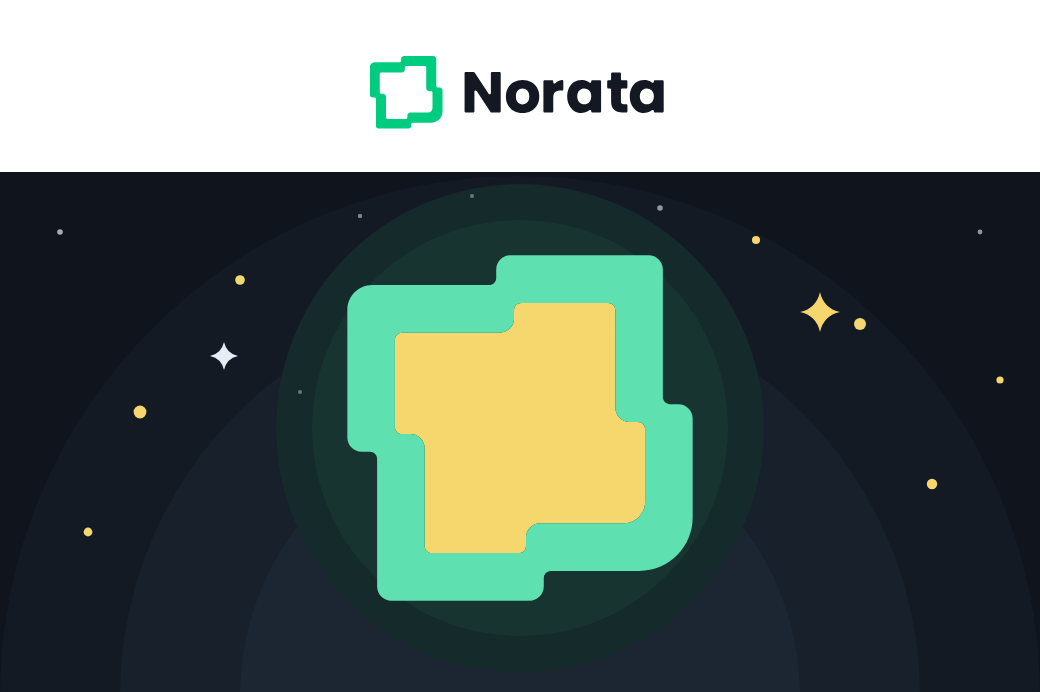
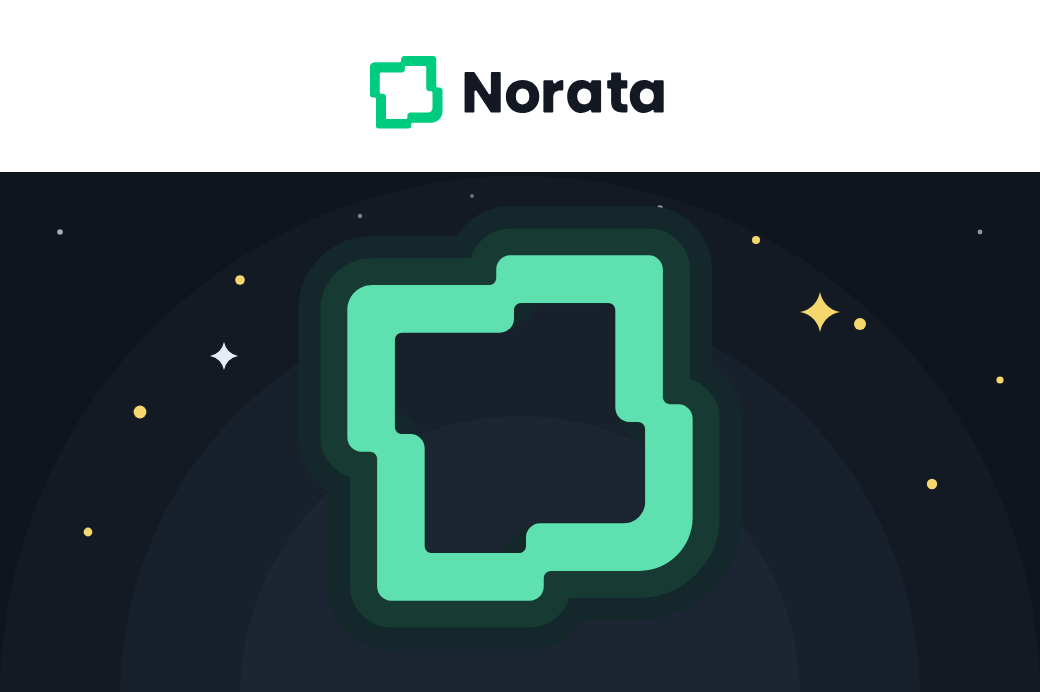
Correos: la bienvenida sin relleno en el hueco del isotipo y con el resplandor en su silueta

Changed region(s): [[0.3692, 0.4249, 0.6462, 0.8194]]

diff --git a/correos/LEEME.md b/correos/LEEME.md
@@ -144,7 +144,7 @@ app.
 | 01 Confirmar cuenta | menta `#5fe0b0` | confirmar | la puerta de dos hojas, abriéndose |
 | 02 Recuperar contraseña | luciérnaga `#f5d76e` | recuperar | la llave |
 | 03 Cambio de correo | menta `#5fe0b0` | confirmar | del sobre viejo al nuevo |
-| 04 Bienvenida | noche `#10151d` | ya estás dentro | el isotipo, con su hueco encendido |
+| 04 Bienvenida | noche `#10151d` | ya estás dentro | el isotipo de noche, hueco vacío y resplandor con su silueta |
 | 05 Contraseña cambiada | celeste `#8ecdf5` | constancia de cuenta | el escudo con la palomita |
 | 06 Acceso vinculado | celeste `#8ecdf5` | constancia de cuenta | dos eslabones recién unidos |
 
